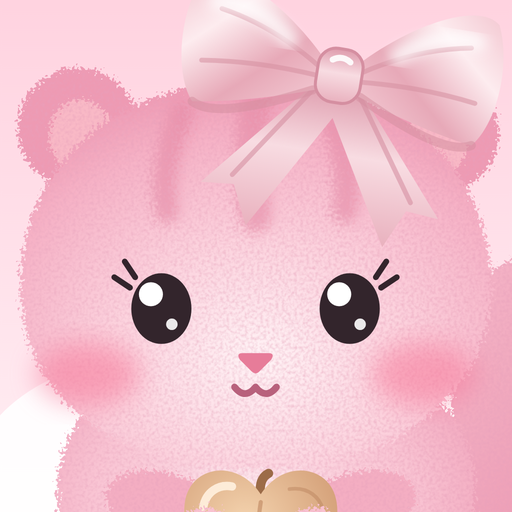
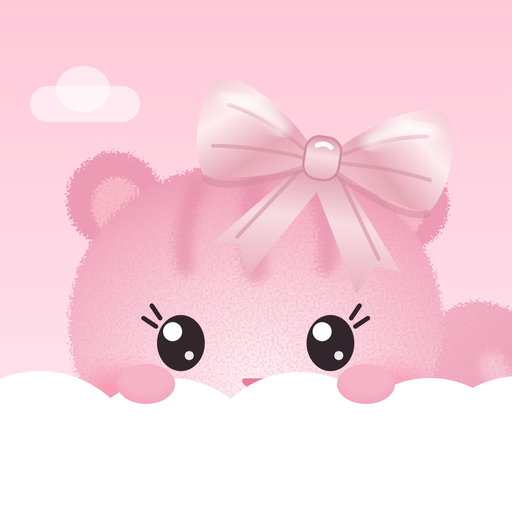
Laadimisekraan, sujuvad üleminekud ja uus ikoon

diff --git a/index.html b/index.html
@@ -265,6 +265,47 @@ h1,h2,h3,p{margin:0}
 .prev{display:block;width:100%;max-height:300px;object-fit:contain;border-radius:14px;margin:10px 0;background:var(--line)}
 .prev[hidden]{display:none}
 
+/* app feel: loading screen, transitions, press feedback, toast */
+html{-webkit-text-size-adjust:100%}
+button,a,input,label{touch-action:manipulation}
+button,.nav,.label,.card-h,.page-h{-webkit-user-select:none;user-select:none}
+button{transition:transform .12s ease,background-color .2s ease,opacity .2s ease}
+button:active{transform:scale(.95)}
+.tabs button{transition:background-color .25s ease,color .25s ease,transform .12s ease}
+#splash{position:fixed;inset:0;z-index:100;background:linear-gradient(#FFDDE8,#FFF3F6);display:flex;flex-direction:column;align-items:center;justify-content:center;gap:14px;transition:opacity .45s ease,visibility .45s ease}
+#splash.out{opacity:0;visibility:hidden}
+#spArt{width:132px;height:132px;animation:spbob 1.200s ease-in-out infinite}
+#spArt svg{width:100%;height:100%;display:block}
+#spArt .peek{animation:none;transform:translateY(-5px)}
+.sp-name{font-family:var(--display);font-weight:800;font-size:30px;line-height:1}
+.sp-bar{width:150px;height:8px;border-radius:99px;background:#fff;overflow:hidden}
+.sp-bar i{display:block;height:100%;width:100%;border-radius:99px;background:var(--pink-deep);transform-origin:left;animation:spload 1.150s cubic-bezier(.4,.1,.3,1) both}
+@keyframes spload{from{transform:scaleX(.06)}to{transform:scaleX(1)}}
+@keyframes spbob{0%,100%{transform:translateY(0)}50%{transform:translateY(-7px)}}
+#view.enter{animation:viewin .34s cubic-bezier(.2,.7,.3,1) both}
+#view.enter .stack>*{animation:cardin .42s cubic-bezier(.2,.7,.3,1) both}
+#view.enter .stack>*:nth-child(1){animation-delay:.04s}#view.enter .stack>*:nth-child(2){animation-delay:.09s}
+#view.enter .stack>*:nth-child(3){animation-delay:.14s}#view.enter .stack>*:nth-child(4){animation-delay:.19s}#view.enter .stack>*:nth-child(n+5){animation-delay:.24s}
+#view.enter .bar i{transform-origin:left;animation:growx .7s .2s cubic-bezier(.2,.7,.3,1) both}
+#view.enter .cb{transform-box:fill-box;transform-origin:50% 100%;animation:growy .6s .2s cubic-bezier(.2,.7,.3,1) both}
+#view.enter .ring circle:nth-child(2){animation:ringin .9s .15s cubic-bezier(.2,.7,.3,1) both}
+@keyframes viewin{from{opacity:0;transform:translateY(8px)}to{opacity:1;transform:none}}
+@keyframes cardin{from{opacity:0;transform:translateY(14px)}to{opacity:1;transform:none}}
+@keyframes growx{from{transform:scaleX(0)}to{transform:scaleX(1)}}
+@keyframes growy{from{transform:scaleY(0)}to{transform:scaleY(1)}}
+@keyframes ringin{from{stroke-dasharray:0 400}}
+.scrim{animation:fadein .22s ease both}
+.sheet{animation:sheetup .34s cubic-bezier(.2,.8,.3,1) both}
+.scrim.closing{animation:fadeout .22s ease both}
+.scrim.closing .sheet{animation:sheetdown .22s ease-in both}
+@keyframes fadein{from{opacity:0}to{opacity:1}}
+@keyframes fadeout{from{opacity:1}to{opacity:0}}
+@keyframes sheetup{from{transform:translateY(100%)}to{transform:none}}
+@keyframes sheetdown{from{transform:none}to{transform:translateY(100%)}}
+#toast{position:fixed;left:50%;top:calc(12px + env(safe-area-inset-top));z-index:60;transform:translate(-50%,-24px);opacity:0;pointer-events:none;background:var(--ink);color:#fff;font-weight:800;font-size:14.500px;padding:10px 16px;border-radius:99px;box-shadow:0 8px 24px rgba(59,42,53,.25);max-width:calc(100% - 32px);white-space:nowrap;overflow:hidden;text-overflow:ellipsis;transition:transform .3s cubic-bezier(.2,.8,.3,1),opacity .3s ease}
+#toast.on{transform:translate(-50%,0);opacity:1}
+@media (prefers-reduced-motion:reduce){#view.enter,#view.enter *,.scrim,.sheet,#spArt,.sp-bar i{animation:none!important}button:active{transform:none}}
+
 /* nav */
 .nav{position:fixed;left:0;right:0;bottom:0;z-index:20;pointer-events:none}
 .nav-in{max-width:460px;margin:0 auto;padding:0 20px 18px;display:flex;justify-content:space-between;align-items:center}
@@ -299,6 +340,8 @@ h1,h2,h3,p{margin:0}
 </style>
 </head>
 <body>
+<div id="splash" aria-hidden="true"><div id="spArt"></div><div class="sp-name">Orava päevik</div><div class="sp-bar"><i></i></div></div>
+<div id="toast" role="status"></div>
 <div id="app"><main id="view"></main></div>
 
 <nav class="nav" aria-label="Menüü"><div class="nav-in">
@@ -708,7 +751,7 @@ function chart(vals,o){
     const cx=(i+.5)*(pw/7),x=cx-bw/2;
     if(v>0){const yy=y(v),r=Math.min(8,(pt+ph-yy));
       const col=o.limit&&v>o.limit?'#E0533A':o.color;
-      s+=`<path d="M${x} ${pt+ph}V${yy+r}Q${x} ${yy} ${x+r} ${yy}H${x+bw-r}Q${x+bw} ${yy} ${x+bw} ${yy+r}V${pt+ph}Z" fill="${col}"><title>${DOW[i]}: ${o.tip(v)}</title></path>`}
+      s+=`<path class="cb" d="M${x} ${pt+ph}V${yy+r}Q${x} ${yy} ${x+r} ${yy}H${x+bw-r}Q${x+bw} ${yy} ${x+bw} ${yy+r}V${pt+ph}Z" fill="${col}"><title>${DOW[i]}: ${o.tip(v)}</title></path>`}
     s+=`<text x="${cx}" y="${H-8}" text-anchor="middle" font-size="12.500" font-weight="800" fill="${i===o.today?'#3B2A35':'#A08B97'}">${DOW[i]}</text>`;
     if(i===o.today)s+=`<circle cx="${cx}" cy="${H-2.500}" r="2" fill="#3B2A35"/>`;
   });
@@ -827,8 +870,13 @@ document.addEventListener('change',async e=>{if(e.target.id!=='vFile')return;con
 
 /* ---------- sheets ---------- */
 let addTab='food';
-function openSheet(html){$('#sheet').innerHTML=html;$('#scrim').hidden=false}
-function closeSheet(){$('#scrim').hidden=true;$('#sheet').innerHTML=''}
+let closeTimer=0;
+function openSheet(html){clearTimeout(closeTimer);const sc=$('#scrim');sc.classList.remove('closing');$('#sheet').innerHTML=html;sc.hidden=false}
+function closeSheet(){const sc=$('#scrim');if(sc.hidden||sc.classList.contains('closing'))return;sc.classList.add('closing');
+  clearTimeout(closeTimer);closeTimer=setTimeout(()=>{sc.hidden=true;sc.classList.remove('closing');$('#sheet').innerHTML=''},210)}
+function enter(){const el=$('#view');el.classList.remove('enter');void el.offsetWidth;el.classList.add('enter')}
+let toastTimer=0;
+function toast(t){const el=$('#toast');el.textContent=t;el.classList.add('on');clearTimeout(toastTimer);toastTimer=setTimeout(()=>el.classList.remove('on'),1900)}
 function savedList(){
   return S.saved.length?S.saved.map(f=>`<div class="item"><span class="t">${esc(f.name)}</span><span class="num">${fmt(f.kcal)} kcal</span>
     <button class="btn sm pink" data-act="add-saved" data-id="${f.id}">Lisa</button>
@@ -873,8 +921,8 @@ function settingsSheet(){
 }
 
 /* ---------- actions ---------- */
-function addFood(name,kcal){const k=dkey(new Date());S.days[k]=S.days[k]||{foods:[],water:[]};S.days[k].foods.push({id:uid(),name,kcal,t:Date.now()});save()}
-function addWater(ml){const k=dkey(new Date());S.days[k]=S.days[k]||{foods:[],water:[]};S.days[k].water.push({id:uid(),ml,t:Date.now()});save()}
+function addFood(name,kcal){const k=dkey(new Date());S.days[k]=S.days[k]||{foods:[],water:[]};S.days[k].foods.push({id:uid(),name,kcal,t:Date.now()});save();toast(`Lisatud: ${name}, ${fmt(kcal)} kcal`)}
+function addWater(ml){const k=dkey(new Date());S.days[k]=S.days[k]||{foods:[],water:[]};S.days[k].water.push({id:uid(),ml,t:Date.now()});save();toast(`Lisatud ${fmt(ml)} ml vett`)}
 function readFood(){
   const name=$('#fName').value.trim(),kcal=Math.round(Number($('#fKcal').value)),note=$('#foodNote');
   if(!name){note.textContent='Kirjuta toidu nimi.';$('#fName').focus();return null}
@@ -887,11 +935,11 @@ document.addEventListener('click',e=>{
   const q=e.target.closest('.sq');if(q){if(pet.moved){pet.moved=false;return}q.classList.remove('hop');void q.getBoundingClientRect();q.classList.add('hop');return}
   const b=e.target.closest('[data-act]');if(!b)return;
   const a=b.dataset.act,d=b.dataset;
-  if(a==='go'){view=d.v;render();window.scrollTo(0,0)}
+  if(a==='go'){if(view!==d.v){view=d.v;render();enter();window.scrollTo(0,0)}}
   else if(a==='feed-toggle'){feedOpen=!feedOpen;$('.feed').classList.toggle('open',feedOpen);b.setAttribute('aria-expanded',feedOpen);const c=$('.bubble');if(feedOpen&&c){if(!c.dataset.t)c.dataset.t=c.textContent;c.textContent='Lohista toit minu juurde!';clearTimeout(eatTimer);eatTimer=setTimeout(()=>{const z=$('.bubble');if(z&&z.dataset.t){z.textContent=z.dataset.t;delete z.dataset.t}},2600)}}
   else if(a==='sleep-toggle'){
-    if(!S.sleep){S.sleep={start:Date.now()};feedOpen=false;save();render()}
-    else{const dur=Date.now()-S.sleep.start;S.lastSleep={start:S.sleep.start,end:Date.now()};S.sleep=null;save();render();
+    if(!S.sleep){S.sleep={start:Date.now()};feedOpen=false;save();render();enter()}
+    else{const dur=Date.now()-S.sleep.start;S.lastSleep={start:S.sleep.start,end:Date.now()};S.sleep=null;save();render();enter();
       const c=$('.bubble');if(c){c.dataset.t=c.textContent;c.textContent=dur<60000?'Tere! Ma ei jõudnud veel uinudagi.':`Tere hommikust! Magasin ${hm(dur)}.`;clearTimeout(eatTimer);eatTimer=setTimeout(()=>{const z=$('.bubble');if(z&&z.dataset.t){z.textContent=z.dataset.t;delete z.dataset.t}},5000)}}}
   else if(a==='open-add'){addTab='food';addSheet()}
   else if(a==='add-tab'){addTab=d.t;addSheet()}
@@ -911,16 +959,16 @@ document.addEventListener('click',e=>{
     if(!(v>0)||v>168){c.focus();return}
     fastGoal=v;S.activeFast={start:Date.now(),goalH:v};save();$('#fastCard').innerHTML=fastCard();tick()}
   else if(a==='fast-stop'){const f=S.activeFast;if(f){S.fasts.push({id:uid(),start:f.start,end:Date.now(),goalH:f.goalH});S.activeFast=null;save();render()}}
-  else if(a==='goal-tab'){goalTab=d.t;render()}
+  else if(a==='goal-tab'){if(goalTab!==d.t){goalTab=d.t;render();enter()}}
   else if(a==='vis-add')visAddSheet();
   else if(a==='vis-open')visOpenSheet(d.id);
   else if(a==='vis-del'){if(!b.dataset.armed){b.dataset.armed='1';b.textContent='Vajuta uuesti';b.style.background='#FFD9CC'}else{vision=vision.filter(x=>x.id!==d.id);visDel(d.id);closeSheet();render()}}
-  else if(a==='goal-nav'){goalOff[goalTab]+=Number(d.d);render()}
+  else if(a==='goal-nav'){goalOff[goalTab]+=Number(d.d);render();enter()}
   else if(a==='goal-toggle'){const g=(S.goals[goalPeriod().key]||[]).find(x=>x.id===d.id);if(g){g.done=!g.done;save();render()}}
   else if(a==='goal-del'){const k=goalPeriod().key;S.goals[k]=(S.goals[k]||[]).filter(x=>x.id!==d.id);if(!S.goals[k].length)delete S.goals[k];save();render()}
   else if(a==='cal-day'){calSel=d.k;render()}
-  else if(a==='cal-nav'){calMonth=new Date(calMonth.getFullYear(),calMonth.getMonth()+Number(d.d),1);render()}
-  else if(a==='week-nav'){weekOff=Math.min(0,weekOff+Number(d.d));render()}
+  else if(a==='cal-nav'){calMonth=new Date(calMonth.getFullYear(),calMonth.getMonth()+Number(d.d),1);render();enter()}
+  else if(a==='week-nav'){weekOff=Math.min(0,weekOff+Number(d.d));render();enter()}
   else if(a==='clear-demo'){const s=S.settings;S=blank();S.settings=s;save();render()}
   else if(a==='export'){const txt=JSON.stringify(S),n=$('#bakNote');
     navigator.clipboard.writeText(txt).then(()=>n.textContent='Varukoopia on kopeeritud. Kleebi see kuhugi kindlasse kohta.')
@@ -996,6 +1044,11 @@ document.addEventListener('keydown',e=>{if(e.key==='Escape'&&!$('#scrim').hidden
 
 load();render();visLoad();
 if('serviceWorker' in navigator)window.addEventListener('load',()=>navigator.serviceWorker.register('sw.js').catch(()=>{}));
+/* loading screen: stays until fonts are ready, at least about a second, then fades into the app */
+(function(){const sp=$('#splash'),t0=Date.now();$('#spArt').innerHTML=NUT.replace(/"pk"/g,'"pk2"').replace(/#pk\)/g,'#pk2)').replace(/"pkg"/g,'"pkg2"').replace(/#pkg\)/g,'#pkg2)');
+  const done=()=>setTimeout(()=>{sp.classList.add('out');enter()},Math.max(0,1150-(Date.now()-t0)));
+  const fonts=document.fonts&&document.fonts.ready?document.fonts.ready:Promise.resolve();
+  Promise.race([fonts,new Promise(r=>setTimeout(r,2500))]).then(done,done)})();
 </script>
 </body>
 </html>

diff --git a/sw.js b/sw.js
@@ -1,5 +1,5 @@
 // Orava päevik: offline support. Bump VERSION whenever the app files change.
-const VERSION = 'orav-v1';
+const VERSION = 'orav-v2';
 const SHELL = ['./', './index.html', './manifest.webmanifest', './icon-192.png', './icon-512.png', './apple-touch-icon.png'];
 
 self.addEventListener('install', e => {
